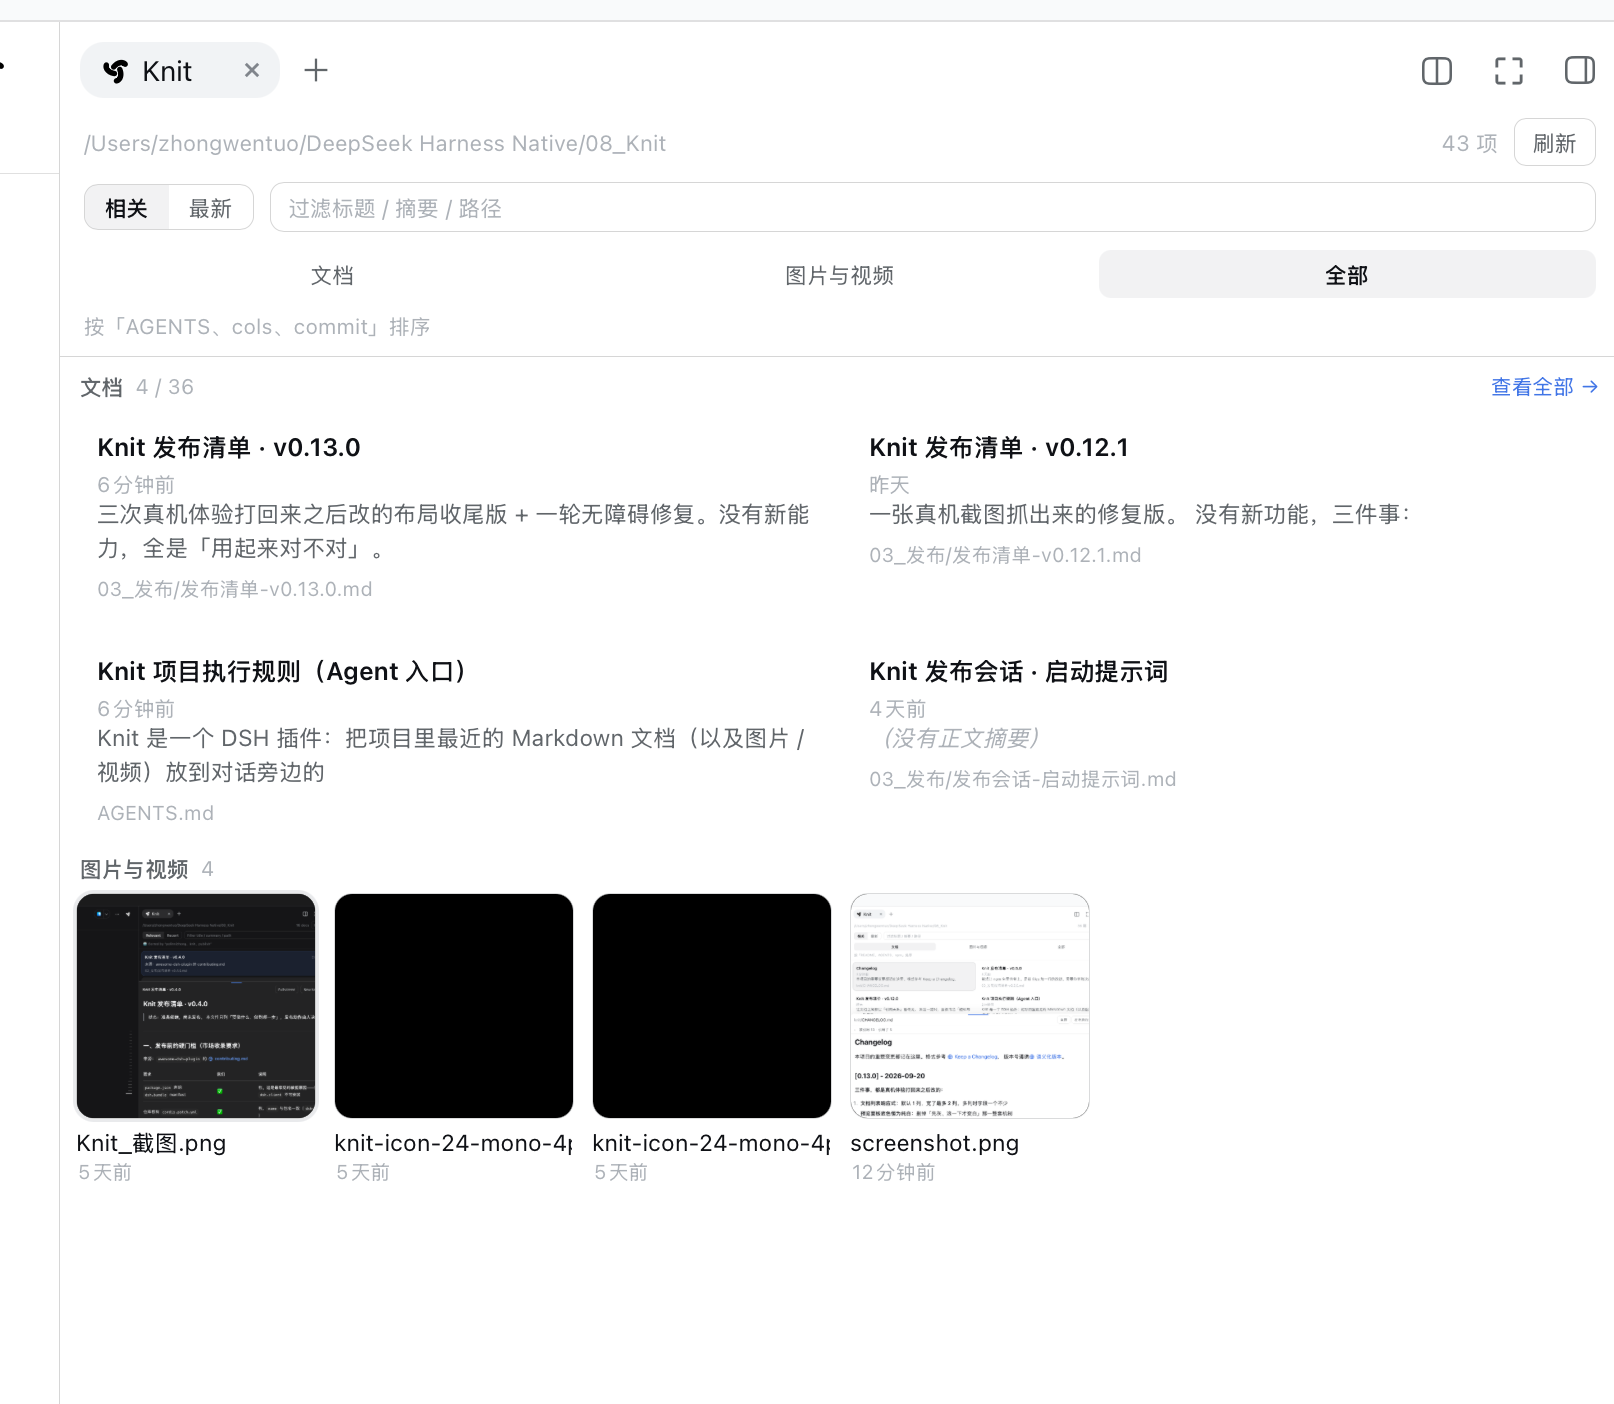
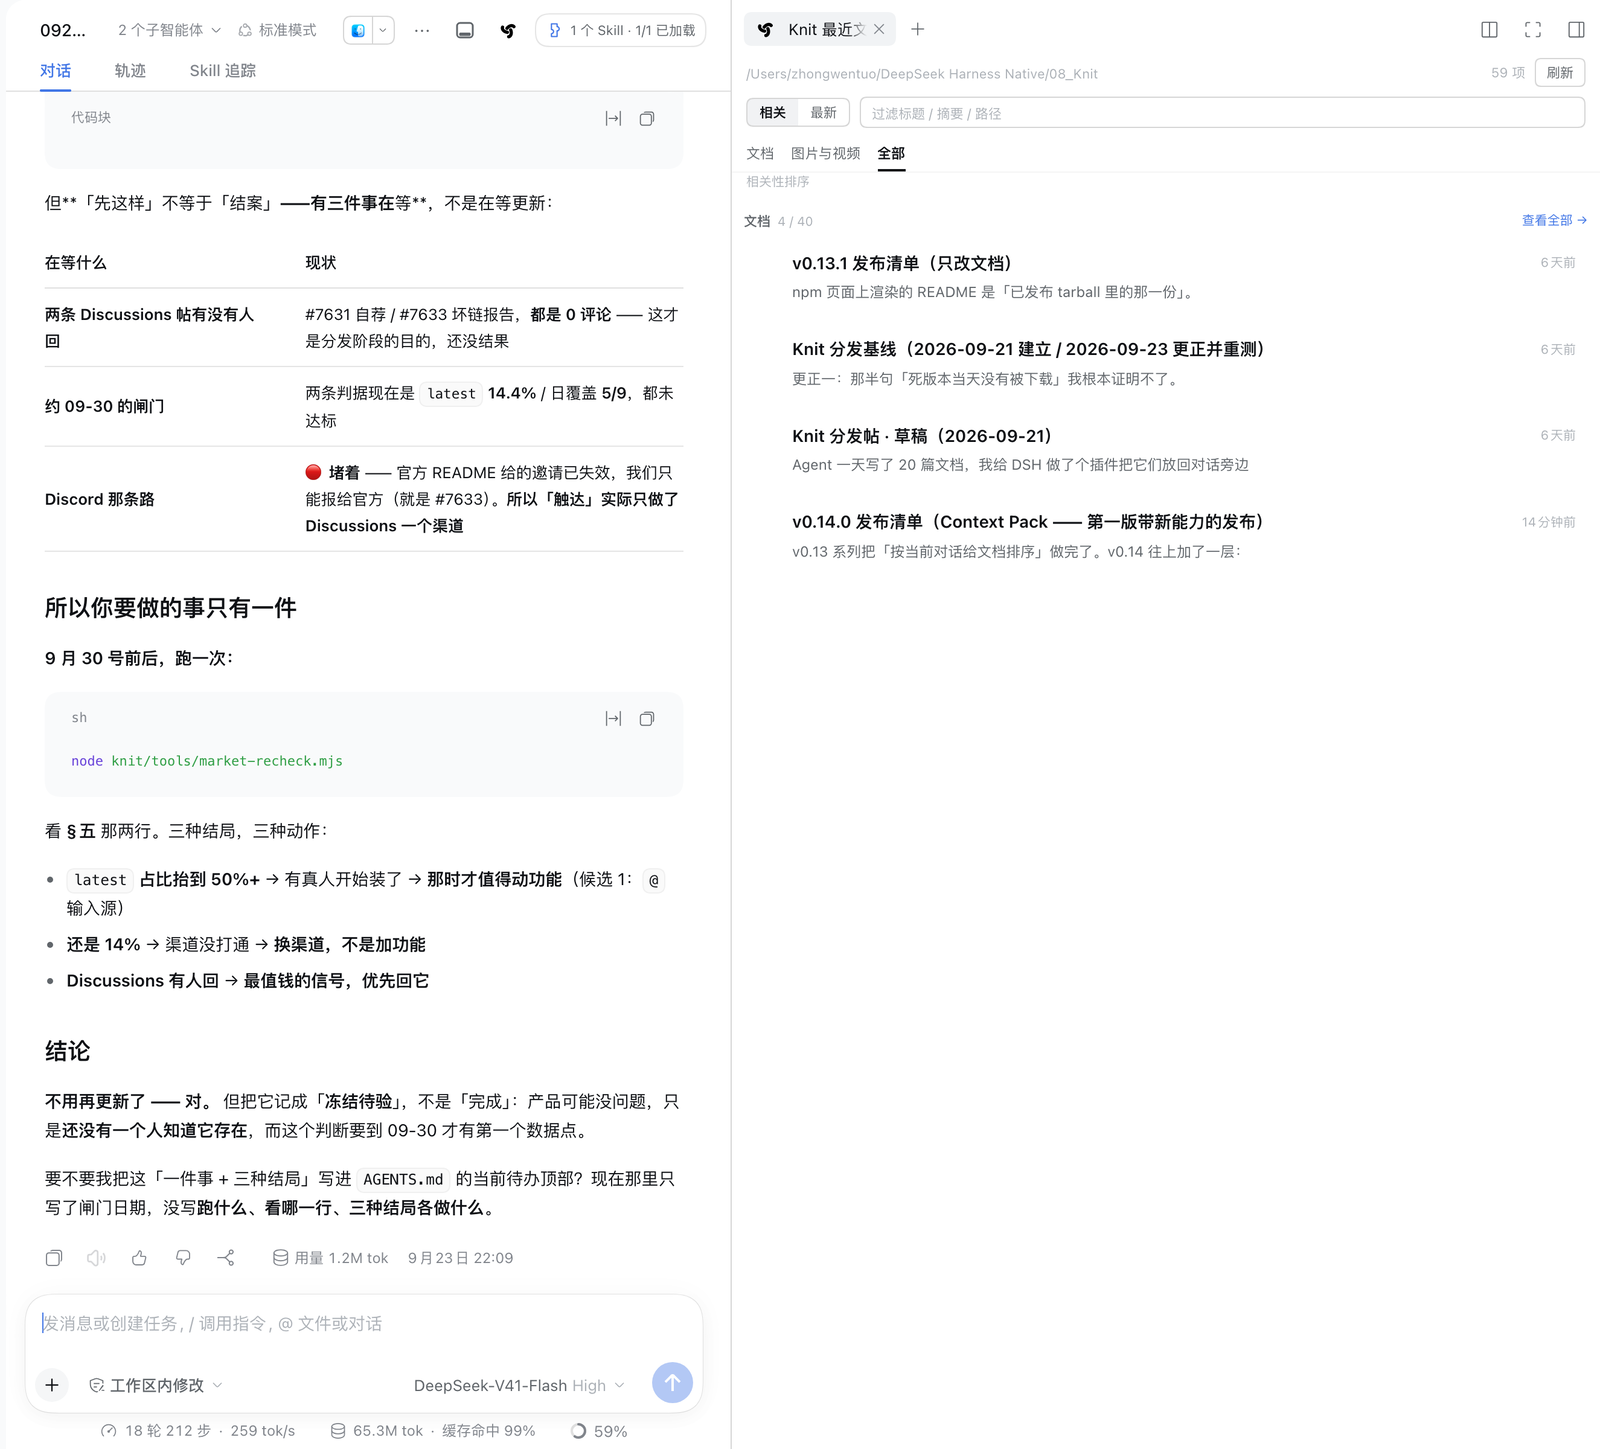
docs: 重拍四张演示图（v0.14 界面）
四张图都停在 2026-09-21，早于 v0.13 / v0.14 的两轮界面改动（类型切换从灰底胶囊改成
下划线页签、列表改成永远单列 + 序号列、路径从列表行挪进预览头面包屑、顶上多了三层分组），
逐条对不上。这轮连静态图带动图一起重拍。

- screenshot.png / screenshot-media.png / screenshot-all.png：1600×1449，中文、浅色
- demo-reorder.gif：1100×996 / 59 帧，**新开的空会话** → 问 BM25 → 列表整个翻盘

图注跟着改：36 篇 → 51 篇；媒体档删掉「这一屏有视频」（这个工作区里没有视频，
两个纯黑方块是两个单色 SVG 图标本身）；「全部」档如实写成「只给前 4 条 + 查看全部
（4 / 40）」，并记下媒体区不出现的机制（文档数 ≥ 40 的工作区都这样，已知缺陷、本轮不修）。

tools/make-demo-gif.mjs 顶部「录屏这一步必须由人做」已被证伪：Playwright 的 launch API
仍然堵，但同一个 chrome-headless-shell 二进制直接起是通的，走 CDP 就能逐帧抓。注释改写成
可行做法 + 三个坑（必须带 --lang=zh-CN、取景要拍进 composer、仍然是真实 GUI）。

diff --git a/README.en.md b/README.en.md
@@ -7,18 +7,22 @@
 
 ![Screenshot from a real machine: the Knit sidebar ranking the workspace documents by relevance, with a Markdown preview expanded in place and the references bar below the preview header](https://raw.githubusercontent.com/PolinniZhong/dsh-knit/main/docs/screenshot.png)
 
-*Screenshot from a real machine, not a mock-up: a workspace with 36 documents — the list, an inline
+*Screenshot from a real machine, not a mock-up: a workspace with 51 documents — the list, an inline
 preview, and the references bar.*
 *The references bar is new in v0.12: expand it to see which documents reference this one, and click
 one to jump straight there.*
 *The top line follows whatever you're talking about; when there isn't enough conversation yet it
 falls back to newest-first and states its basis.*
+*Since v0.14 the list is always one column: the rank number sits in its own column on the far left
+(vertically centred on the title's first line), then Primary dot + title + relative time (time on the
+right), then the summary. **The path lives in the preview header's breadcrumb only** — rows no longer repeat it.*
 
 ![Order follows the conversation: send a message and the sidebar re-ranks the document list by it](https://raw.githubusercontent.com/PolinniZhong/dsh-knit/main/docs/demo-reorder.gif)
 
-*Order follows the conversation — same workspace, same session: ask "how is BM25 weighted for the
-ranking?" and the sorting docs move to the top; then ask "how do I check plugin-market listings and
-download counts?" and the market-research docs take over.*
+*Order follows the conversation — same workspace, in a freshly opened session: before you have said
+anything, the top line says so ("not enough conversation yet — sorted by time") and the list runs
+newest-first; ask "how is BM25 weighted for the ranking?" and the ranking docs take over, with the
+rank numbers and the primary / supporting / related tiers appearing alongside them.*
 *⚠ The panel polls **every 5 seconds**, so the re-rank lands **0–5 s** after the message rather than
 instantly, and the GIF runs faster than real time.*
 
@@ -321,24 +325,24 @@ feature request.
 
 ### The other two views
 
-![Screenshot of the Images & video tab: a square thumbnail grid, six columns at this panel width, with a video thumbnail carrying a play glyph and a duration badge](https://raw.githubusercontent.com/PolinniZhong/dsh-knit/main/docs/screenshot-media.png)
+![Screenshot of the Images & video tab: a square thumbnail grid, six columns at this panel width](https://raw.githubusercontent.com/PolinniZhong/dsh-knit/main/docs/screenshot-media.png)
 
 *Images & video: square thumbnails, with the **column count following the panel width continuously** —
-six columns at this width, cells about 112px. Videos show their first frame as a poster with a play
-glyph and a duration badge. These are the workspace's real image and SVG files; this particular
-workspace happens to hold several screenshots and two icon files.*
+six columns at this width, cells about 112px. These are the workspace's real image and SVG files; this
+particular workspace happens to hold several screenshots and two single-colour SVG icons (the two solid
+black squares are those icons). Videos get their first frame as a poster with a play glyph and a
+duration badge — this workspace simply has no video, so none shows here.*
 
-![Screenshot of the All tab: documents above, media with a count only below](https://raw.githubusercontent.com/PolinniZhong/dsh-knit/main/docs/screenshot-all.png)
+![Screenshot of the All tab: the documents section showing the first 4 with a "View all →" link, and no media section](https://raw.githubusercontent.com/PolinniZhong/dsh-knit/main/docs/screenshot-all.png)
 
-*All: documents on top (max 4, with a "View all →" link when truncated) and images & video below
-(**never truncated**, count only). All four fields — title, time, summary, path — were present.*
+*All: the documents section shows at most 4, with a "View all →" link when truncated (here "4 / 40").*
 
-⚠ **This screenshot is from v0.13**, when documents could still lay out in two columns *and* rows still
-carried the path. **Since v0.14 the list is always one column** (the number now sits in its own column
-on the far left, with Primary dot + relative time, then the title, stacked to its right), and **the path
-is no longer shown in the list** (the preview header's breadcrumb always shows the full path, so the
-duplicate was dropped).
-The screenshot has not been retaken yet.
+⚠ **There is no media section in this screenshot, and that is not a layout accident** — for the All
+view the host fetches a **40-item window**. This workspace has 51 documents plus 8 media files, and the
+media rank 50th–58th by relevance, so they fall outside the window; the client's
+`visibleDocs.filter(isMedia)` is then empty and the media section is not rendered at all. **Any
+workspace with 40 or more documents behaves this way** — a known defect, with reproduction and the fix
+recorded in [`docs/README.md`](docs/README.md).*
 
 ---
 

diff --git a/README.md b/README.md
@@ -7,14 +7,17 @@
 
 ![Knit 面板真机截图：右侧栏按相关性列出工作区文档，就地展开 Markdown 预览，预览头下方是引用条](https://raw.githubusercontent.com/PolinniZhong/dsh-knit/main/docs/screenshot.png)
 
-*真机截图（不是原型）：一个含 36 篇文档的工作区 —— 列表 + 就地预览 + 引用条。*
+*真机截图（不是原型）：一个含 51 篇文档的工作区 —— 列表 + 就地预览 + 引用条。*
 *引用条是 v0.12 加的：展开就能看到「这篇被谁引用」，点一项直接跳过去。*
 *顶行会跟着你正在聊什么变；对话内容还不足时它退回按时间排，并如实说明依据。*
+*v0.14 起文档列表永远单列：最左边独立一列是序号（与标题第一行垂直居中），右边第一行＝*
+*Primary 点 + 标题 + 相对时间（**时间靠右**），摘要再往下；**路径只出现在预览头的面包屑里**，列表行不再重复。*
 
 ![排序跟着对话走：发一句话，右侧栏的文档列表按这句话重排](https://raw.githubusercontent.com/PolinniZhong/dsh-knit/main/docs/demo-reorder.gif)
 
-*排序跟着对话走（同一个工作区、同一个会话）：先问「排序算法用的 BM25 是怎么加权的？」，*
-*顶上换成排序那几篇；再问「插件市场收录和下载量怎么查？」，顶上又换成市场调研那几篇。*
+*排序跟着对话走（同一个工作区、刚新开一个会话）：还没聊什么时，顶行如实写着「对话内容还不足，暂按最新排序」，*
+*列表按时间排；问一句「排序算法用的 BM25 是怎么加权的？」，顶上立刻换成排序那几篇 ——*
+*序号与「主要上下文 / 辅助上下文 / 相关上下文」三层随之一起出现。*
 *⚠ 面板是**每 5 秒轮询一次**的，所以重排落在发消息之后的 **0–5 秒**内、不是瞬时；动图比真实时间快。*
 
 扫整个项目文件夹的 Markdown / 图片 / 视频 · 排序跟着对话走 · 不调模型、不联网
@@ -184,21 +187,20 @@ dsh plugin --profile web add dsh-knit
 
 ### 另外两档长什么样
 
-![图片与视频档真机截图：方形缩略图网格，这一屏 6 列，其中一个视频缩略图带播放三角与时长角标](https://raw.githubusercontent.com/PolinniZhong/dsh-knit/main/docs/screenshot-media.png)
+![图片与视频档真机截图：方形缩略图网格，这一屏 6 列](https://raw.githubusercontent.com/PolinniZhong/dsh-knit/main/docs/screenshot-media.png)
 
 *图片与视频：方形缩略图，**列数跟着面板宽度连续变** —— 这一屏是 6 列，格子约 112px。*
-*视频取首帧当海报，中央叠播放三角、右下角叠时长。列出的就是工作区里真实的图片与 SVG 文件 ——*
-*这个工作区里正好有几张截图和两个图标，所以看起来像一屏文件缩略图。*
+*列出的就是工作区里真实的图片与 SVG 文件 —— 这个工作区正好有几张截图和两个单色 SVG 图标，*
+*所以看起来像一屏文件缩略图（那两个纯黑方块就是那两个图标本身）。视频会取首帧当海报、*
+*中央叠播放三角、右下角叠时长，只是这个工作区里没有视频，所以这一屏看不到。*
 
-![全部档真机截图：上区文档列表，下区图片与视频只给计数](https://raw.githubusercontent.com/PolinniZhong/dsh-knit/main/docs/screenshot-all.png)
+![全部档真机截图：文档区只给前 4 条与「查看全部 →」，媒体区没有出现](https://raw.githubusercontent.com/PolinniZhong/dsh-knit/main/docs/screenshot-all.png)
 
-*全部：上区文档（最多 4 条，超出时右侧给「查看全部 →」）、下区图片与视频（**不截断**，只给计数）。*
-标题 / 时间 / 摘要 / 路径**四个字段一个不少**。
-⚠ **这张图是 v0.13 时代的**：那时候文档还能排 2 列，列表行里也还有路径，标题与时间各占一行；
-**v0.14 起文档列表永远单列**（每篇最左边独立一列是序号，与标题第一行垂直居中；右边第一行＝
-Primary 点 + 标题 + 相对时间，**时间靠右**；摘要再往下），
-而且**路径不再出现在列表行里**（预览头的面包屑始终显示完整路径，重复的那份删掉了），
-截图尚未重拍。
+*全部：文档区最多 4 条，超出时右侧给「查看全部 →」（这一屏是「4 / 40」）。*
+*⚠ **这一屏没有媒体区，而且不是排版问题** —— 宿主为「全部」档取的是 **40 条窗口**：这个工作区*
+*51 篇文档 + 8 个媒体，媒体按相关性排在第 50–58 位、整段被挤出窗口，于是客户端的*
+*`visibleDocs.filter(isMedia)` 恒为空、媒体区整个不渲染。**文档数 ≥ 40 的工作区都会这样**，*
+*这是已知缺陷，复现与修法记在 [`docs/README.md`](docs/README.md)。*
 
 ---
 

diff --git a/docs/README.md b/docs/README.md
@@ -2,10 +2,46 @@
 
 | 文件 | 内容 | 状态 |
 |---|---|---|
-| `screenshot.png` | 真机截图（**1692×1402 / 253 KB**，**中文界面**，2026-09-21 换）：工作区 **36 篇**文档的相关性列表 + 就地预览 + **引用条两组都展开** | ✅ 已就位 |
-| `demo-reorder.gif` | **排序跟着对话走**（1100×746 / **1.3 MB** / 64 帧 / 6.4 秒，2026-09-21 录）：同一个会话里先问「BM25 加权」再问「市场收录与下载量」，列表顶上跟着换两回 | ✅ 已就位 |
-| `screenshot-media.png` | 「图片与视频」档真机截图（1652×1394 / 175 KB）：方形缩略图 6 列 + 视频首帧 / 播放三角 / 时长角标 | ✅ 已就位（2026-09-21） |
-| `screenshot-all.png` | 「全部」档真机截图（1614×1404 / 219 KB）：上区文档 2 列四字段齐全 + 下区媒体只给计数 | ✅ 已就位（2026-09-21） |
+| `screenshot.png` | 真机截图（**1600×1449 / 545 KB**，**中文界面**，2026-09-29 重拍）：工作区 **51 篇**文档的相关性列表（**序号 + 主要 / 辅助 / 相关三层分组**）+ 就地预览 + 引用条 | ✅ 已就位 |
+| `demo-reorder.gif` | **排序跟着对话走**（1100×996 / **506 KB** / 59 帧 / 5.9 秒，2026-09-29 重录）：**新开的空会话**先按时间排（顶行如实写「对话内容还不足，暂按最新排序」），问一句 BM25 后列表整个翻盘 | ✅ 已就位 |
+| `screenshot-media.png` | 「图片与视频」档真机截图（1600×1449 / 394 KB，2026-09-29 重拍）：方形缩略图 6 列 | ✅ 已就位（2026-09-29） |
+| `screenshot-all.png` | 「全部」档真机截图（1600×1449 / 384 KB，2026-09-29 重拍）：文档区只给前 4 条 + 「查看全部 →」（`4 / 40`） | ✅ 已就位（2026-09-29） |
+
+## 2026-09-29 重拍：四张全换了一遍
+
+起因：v0.13 / v0.14 把界面改了两轮（类型切换从灰底胶囊改成下划线页签、列表从两列改成
+**永远单列 + 序号列**、路径从列表行挪进预览头面包屑、顶上多了**三层分组**），四张图全部
+停在 2026-09-21，逐条对不上。这一轮连静态图带动图一起重拍。
+
+- **静态图**：视口 1600×1200、浅色、中文，取景 `{x:275,y:0,w:1325,h:1200,scale:2}`（左＝对话列、
+  右＝右侧栏），抓下来 2650×2400 再降到宽 1600。
+- **动图**：**新开的空会话**里发一句「排序算法用的 BM25 是怎么加权的？」—— 空会话没有历史，
+  一句话就决定排序，对比最干净（09-21 那张也是这么拍的）。
+- **抓帧这次是 agent 自己做的**（09-21 那会儿的结论是「必须由人录」）：Playwright 的
+  *launch API* 起不来，但**同一个 `chrome-headless-shell` 二进制直接起是通的**，连上已经跑着的
+  GUI 走 CDP 就能逐帧抓。命令与三个坑已写进 `tools/make-demo-gif.mjs` 顶部注释。
+  ⚠ **取景必须把 composer 拍进去**：第一次只框了右侧栏，打字发生在取景之外，87 帧里只有 2 个
+  不同画面。
+- **两个测试会话待清理**：`session-ae0b7e72-2316-43a0-a48c-321c705ff81d`、
+  `session-4501b321-b711-49e1-ac06-04308ccab…`（都是 08_Knit 下的一次性会话），
+  另有 `未分组` 里的空会话 `session-46e8c231-…`。DSH 只能归档、不能删除。
+
+### 🔴 顺手抓到的一个真缺陷：「全部」档的媒体区永远不出现（文档数 ≥ 40 的workspace）
+
+`screenshot-all.png` 里**只有文档区、没有媒体区** —— 这不是排版问题：
+
+1. 宿主 `src/host/index.js:611` 的 `kind === 'all'` 分支把文档与媒体拼成一个池子：
+   `pool = collected.docs.concat(collected.media).sort((a, b) => b.mtimeMs - a.mtimeMs)`；
+2. 客户端 `src/client/client.js:1645` 却固定请求 `…&limit=40…`；
+3. 实测 `/knit/api/recent?kind=all&limit=40` → `total: 59`，但 `docs[]` **40 条、媒体 0 条**；
+   改成 `limit=100` 才有媒体，而且媒体排在**第 50–58 位**；
+4. 于是 `src/client/client.js:1694-1695` 的 `visibleDocs.filter(isMedia)` 恒为空
+   （`ALL_DOC_CAP = 4`），媒体区整个不渲染。
+
+**文档数 ≥ 40 的工作区都会这样**（`kind=all` 时的取数窗口不够放下媒体）。图注里如实写了这件事，
+**本轮不修**（属于 0.13 系列遗留，不是 v0.14 引入的）—— 要修就单独提一版，最小改法是让
+`kind=all` 走两段取数，或者把窗口按 `docs + media` 的总数放大（文档早已用
+`console.log` 之外没有取数上限的地方，需要先确认性能）。
 
 **2026-09-19 换过两次。** 之前那张停在 v0.5.x：**深色主题**、**没有类型切换那一行**、
 预览头显示的是**标题**（不是路径面包屑）、按钮是 `Fullscreen` / **`New tab`**
